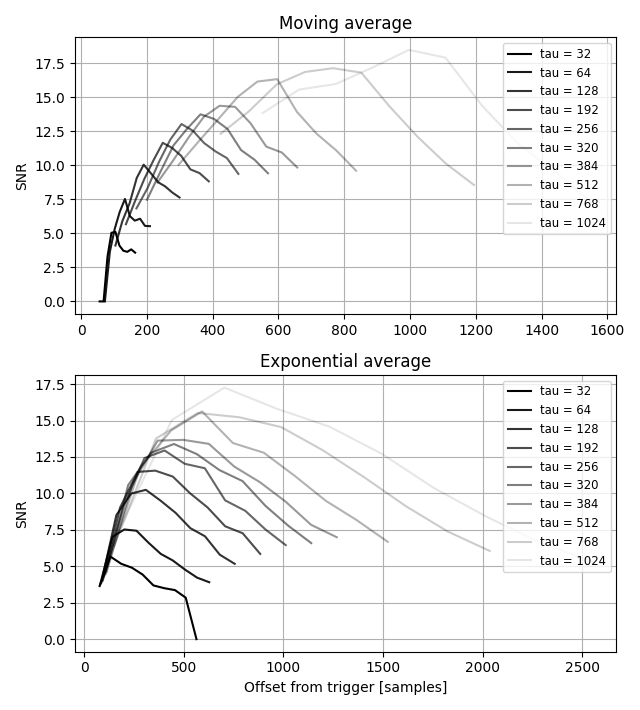
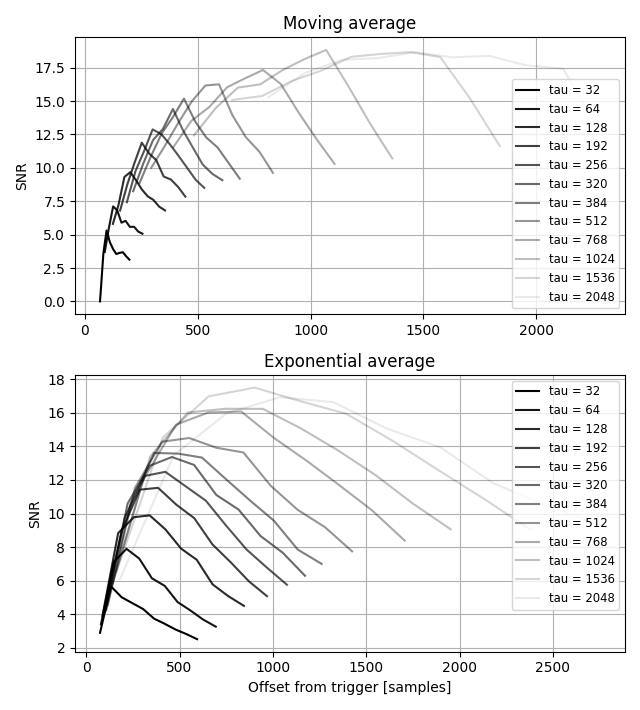
plot SNR maximum as a function of tau

diff --git a/fingersnr.py b/fingersnr.py
@@ -7,33 +7,34 @@ import readwav
 import fighelp
 import integrate
 
+# Load wav file.
 filename = 'nuvhd_lf_3x_tile57_77K_64V_6VoV_1.wav'
 data = readwav.readwav(filename, mmap=False)
-
-tau = np.array([32, 64, 128, 192, 256, 320, 384, 512, 768, 1024])
-
-# delta for moving average
-delta_rel = np.linspace(0.5, 1.4, 10)
-delta_off = 80 + np.linspace(-40, 40, 10)
-delta = delta_off + delta_rel * tau.reshape(-1, 1)
-delta = np.array(delta, int).reshape(-1)
-
-# delta for exponential moving average
-delta_rel_exp = np.linspace(0.1, 2, 10)
-delta_off_exp = np.linspace(75, 500, 10)
-delta_exp = delta_off_exp + delta_rel_exp * tau.reshape(-1, 1)
-delta_exp = np.array(delta_exp, int).reshape(-1)
-
-tau = np.array(tau, int)
-tau = np.broadcast_to(tau.reshape(-1, 1), tau.shape + delta_rel.shape).reshape(-1)
-
-print('computing...')
-start, baseline, vma, vexp = integrate.filter(data, delta, tau, delta_exp, tau)
 
 # Identify events with out-of-trigger signals.
 baseline_zone = data[:, 0, :8900]
 ignore = np.any((0 <= baseline_zone) & (baseline_zone < 700), axis=-1)
 print(f'ignoring {np.sum(ignore)} events with values < 700 in baseline zone')
+
+tau = np.array([32, 64, 128, 192, 256, 320, 384, 512, 768, 1024, 1536, 2048])
+ndelta = 10
+
+# delta for moving average
+delta_rel = np.linspace(0.5, 1.4, ndelta)
+delta_off = 80 + np.linspace(-40, 40, ndelta)
+taueff = 500 * (tau / 500) ** (4/5)
+delta = delta_off + delta_rel * taueff.reshape(-1, 1)
+delta = np.array(delta, int).reshape(-1)
+
+# delta for exponential moving average
+delta_rel_exp = np.linspace(0.1, 2, ndelta)
+delta_off_exp = np.linspace(65, 400, ndelta)
+taueff_exp = 512 * (tau / 512) ** (3/5)
+delta_exp = delta_off_exp + delta_rel_exp * taueff_exp.reshape(-1, 1)
+delta_exp = np.array(delta_exp, int).reshape(-1)
+
+tau = np.array(tau, int)
+tau = np.broadcast_to(tau.reshape(-1, 1), (len(tau), ndelta)).reshape(-1)
 
 def single_filter_analysis(corr_value, fig1=None, fig2=None):
     """
@@ -136,52 +137,58 @@ def single_filter_analysis(corr_value, fig1=None, fig2=None):
     
     return 0 if bad else snr
 
-snr = np.empty((2, len(tau)))
+def snrplot():
+    """
+    Plot SNR as a function of tau and delta for some values of tau and delta
+    hardcoded in the script.
+    
+    Returns
+    -------
+    fig : matplotlib figure
+        The figure with the plots.
+    """
+    print('computing filters...')
+    start, baseline, vma, vexp = integrate.filter(data, delta, tau, delta_exp, tau)
 
-for i in tqdm.tqdm(range(snr.shape[1])):
-    for j, value in enumerate([vma, vexp]):
-        value = value[:, i]
-        corr_value = (baseline - value)[~ignore]
-        snr[j, i] = single_filter_analysis(corr_value)
+    snr = np.empty((2, len(tau)))
 
-def fun(delta, tau, useexp=False):
-    delta = np.array([delta], int)
-    tau = np.array([tau], int)
-    start, baseline, vma, vexp = integrate.filter(data, delta, tau, delta, tau)
-    value = vexp if useexp else vma
-    corr_value = (baseline - value[:, 0])[~ignore]
-    snr = single_filter_analysis(corr_value)
-    return snr
+    print('analysing filter output...')
+    for i in tqdm.tqdm(range(snr.shape[1])):
+        for j, value in enumerate([vma, vexp]):
+            value = value[:, i]
+            corr_value = (baseline - value)[~ignore]
+            snr[j, i] = single_filter_analysis(corr_value)
 
-snr = snr.reshape(2, -1, len(delta_rel))
-tau = tau.reshape(-1, len(delta_rel))
-delta = delta.reshape(tau.shape)
-delta_exp = delta_exp.reshape(tau.shape)
+    snr = snr.reshape(2, -1, ndelta)
+    tau = tau.reshape(-1, ndelta)
+    delta = delta.reshape(tau.shape)
+    delta_exp = delta_exp.reshape(tau.shape)
 
-fig = fighelp.figwithsize([6.4, 7.1], resetfigcount=True)
+    fig = plt.figure('snrplot', figsize=[6.4, 7.1])
+    fig.clf()
 
-axs = fig.subplots(2, 1)
+    axs = fig.subplots(2, 1)
 
-axs[0].set_title('Moving average')
-axs[1].set_title('Exponential average')
-axs[1].set_xlabel('Offset from trigger [samples]')
+    axs[0].set_title('Moving average')
+    axs[1].set_title('Exponential moving average')
+    axs[1].set_xlabel('Offset from trigger [ns]')
 
-for i, ax in enumerate(axs):
-    for j in range(snr.shape[1]):
-        alpha = 1 - (j / snr.shape[1])
-        label = f'tau = {tau[j, 0]}'
-        d = delta if i == 0 else delta_exp
-        ax.plot(d[j], snr[i, j], color='black', alpha=alpha, label=label)
-    ax.set_ylabel('SNR')
-    ax.legend(loc='best', fontsize='small')
-    ax.grid()
+    for i, ax in enumerate(axs):
+        for j in range(snr.shape[1]):
+            alpha = 1 - (j / snr.shape[1])
+            label = f'tau = {tau[j, 0]} ns'
+            d = delta if i == 0 else delta_exp
+            ax.plot(d[j], snr[i, j], color='black', alpha=alpha, label=label)
+        ax.set_ylabel('SNR')
+        ax.legend(loc='best', fontsize='small')
+        ax.grid()
 
-fighelp.saveaspng(fig)
+    fig.tight_layout()
+    fig.show()
+    
+    return fig
 
 def fingerplot(tau, delta, kind='ma'):
-    """
-    Call this interactively after running the script in ipython
-    """
     tau = np.array([tau], int)
     delta = np.array([delta], int)
     start, baseline, vma, vexp = integrate.filter(data, delta, tau, delta, tau)
@@ -198,6 +205,147 @@ def fingerplot(tau, delta, kind='ma'):
     fig1.show()
     fig2.show()
     
-print('call fingerplot(<tau>, <delta>, "ma" or "exp") interactively')
+# Optimization does not work very well for the exponential moving average
+# because yes, while it seems to be ok for the moving average.
+#
+# def fun(x, useexp):
+#     delta, tau = x
+#     delta = np.array([delta], int)
+#     tau = np.array([tau], int)
+#     start, baseline, vma, vexp = integrate.filter(data, delta, tau, delta, tau)
+#     value = vexp if useexp else vma
+#     corr_value = (baseline - value[:, 0])[~ignore]
+#     snr = single_filter_analysis(corr_value)
+#     print(snr)
+#     return -snr
+#
+# print('searching optimal parameters for moving average...')
+# options = dict(maxfev=100, disp=True, return_all=True, xatol=1, fatol=0.001)
+# resultma = optimize.minimize(fun, x0=[1470, 1530], args=(False,), options=options, method='Nelder-Mead')
+#
+# print('searching optimal parameters for exponential average...')
+# options = dict(maxfev=100, disp=True, return_all=True, xatol=1, fatol=0.001)
+# resultexp = optimize.minimize(fun, x0=[1500, 800], args=(True,), options=options, method='Nelder-Mead')
 
-plt.show()
+def snrmax():
+    """
+    Find the maximum SNR varying delta for each tau. Tau values to consider are
+    hardcoded in the script. "Delta" is the offset from the trigger. Also plot
+    the results.
+    
+    Returns
+    -------
+    tau : array (N,)
+        The tau values tested.
+    snrmax : array (2, ntau)
+        The maximum SNR for each tau, first dimension is (moving average,
+        exponential moving average).
+    deltarange : array (2, ntau, 3)
+        The triplets [delta_left, delta_max, delta_right] where delta_max is
+        the delta that maximizes the SNR and delta_left and _right are points
+        where the SNR is -1 relative to the maximum.
+    
+    """
+    def fun(delta, tau, useexp):
+        delta = np.array([delta], int)
+        tau = np.array([tau], int)
+        start, baseline, vma, vexp = integrate.filter(data, delta, tau, delta, tau)
+        value = vexp if useexp else vma
+        corr_value = (baseline - value[:, 0])[~ignore]
+        snr = single_filter_analysis(corr_value)
+        return -snr
+
+    print('maximizing SNR for each tau...')
+    snrmax = np.empty((2, len(tau)))
+    deltarange = np.empty((2, len(tau), 3))
+    # dim0: MOVAVG, EXPAVG
+    # dim1: tau
+    # dim2: left, max, right
+    for i in tqdm.tqdm(range(len(tau))):
+        t = tau[i, 0]
+        for j in range(2):
+            useexp = j == 1
+            args = (t, useexp)
+            bracket = (66 + t * 0.8, 66 + t * 1.2)
+            options = dict(xtol=1, maxiter=20)
+            result = optimize.minimize_scalar(fun, bracket=bracket, args=args, options=options, method='golden')
+            if not result.success:
+                print(f'i={i}, j={j}, max: {result}')
+            deltamax = result.x
+            deltarange[j, i, 1] = deltamax
+            snrmax[j, i] = -result.fun
+        
+            f = lambda *args: fun(*args) - (1 - snrmax[j, i])
+            kw = dict(args=args, options=options, method='bisect')
+            bracket = (0, deltamax)
+            result = optimize.root_scalar(f, bracket=bracket, **kw)
+            if not result.converged:
+                print(f'i={i}, j={j}, left: {result}')
+            deltarange[j, i, 0] = result.root
+
+            bracket = (deltamax, 2.5 * deltamax)
+            result = optimize.root_scalar(f, bracket=bracket, **kw)
+            if not result.converged:
+                print(f'i={i}, j={j}, right: {result}')
+            deltarange[j, i, 2] = result.root
+    
+    output = (tau[:, 0], snrmax, deltarange)
+    snrmaxplot(*output)
+    return output
+
+def snrmaxplot(tau, snrmax, deltarange):
+    """
+    Plot the output from snrmax(). Called by snrmax().
+    
+    Parameters
+    ----------
+    The things returned by snrmax().
+    
+    Returns
+    -------
+    fig : matplotlib figure
+    """
+    fig = plt.figure('snrplot', figsize=[6.4, 7.1])
+    fig.clf()
+
+    axs = fig.subplots(3, 1, sharex=True)
+
+    axs[0].set_title('Maximum SNR')
+    axs[1].set_title('Offset from trigger that maximizes the SNR')
+    axs[2].set_title('Interval width -1 SNR relative to maximum')
+    axs[0].set_ylabel('SNR')
+    axs[1].set_ylabel('Offset from trigger [ns]')
+    axs[2].set_ylabel('Offset from trigger [ns]')
+    axs[2].set_xlabel('Filter duration parameter [ns]')
+    
+    for i, label in enumerate(['moving average', 'exponential moving average']):
+        x = tau + [-8, 8][i]
+
+        ax = axs[0]
+        line, = ax.plot(x, snrmax[i], '.--', label=label)
+        color = line.get_color()
+        ax.legend(loc='best')
+        ax.grid(True)
+    
+        ax = axs[1]
+        dr = deltarange[i].T
+        yerr = [
+            dr[1] - dr[0],
+            dr[2] - dr[1]
+        ]
+        ax.errorbar(x, dr[1], yerr=yerr, fmt='.', color=color, capsize=4)
+        ax.grid(True)
+        
+        ax = axs[2]
+        ax.plot(x, dr[2] - dr[0], '.--', color=color)
+        ax.grid(True)
+
+    fig.tight_layout()
+    fig.show()
+    
+    return fig
+
+print('now call interactively any of:')
+print('fingerplot(<tau>, <delta>, "ma" or "exp")')
+print('snrplot()')
+print('snrmax()')
